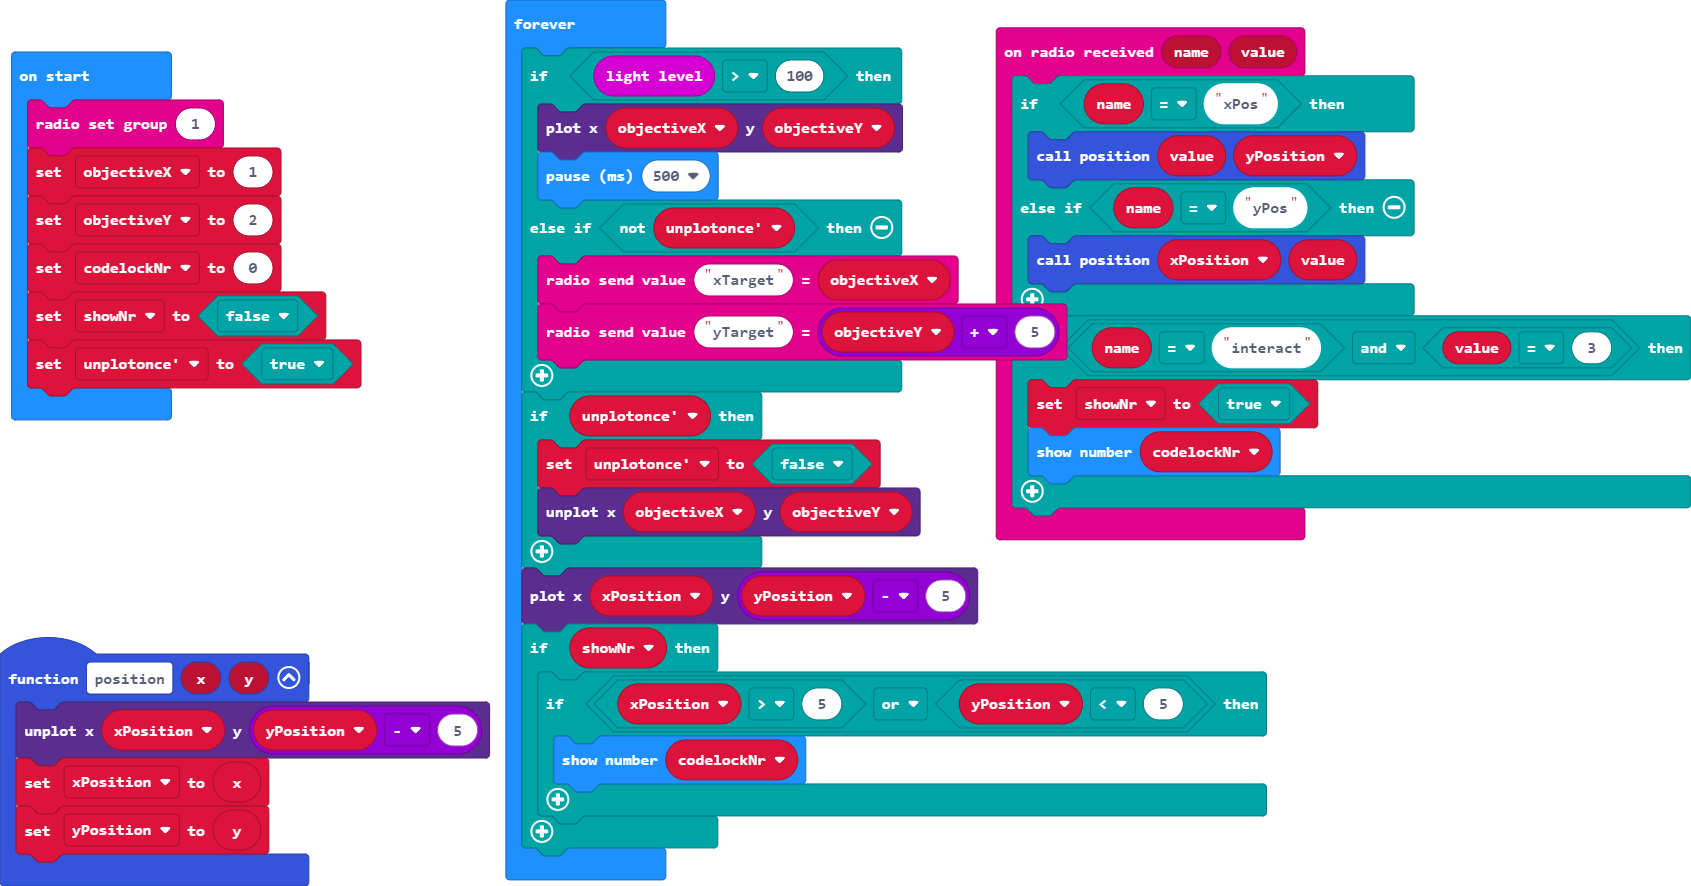
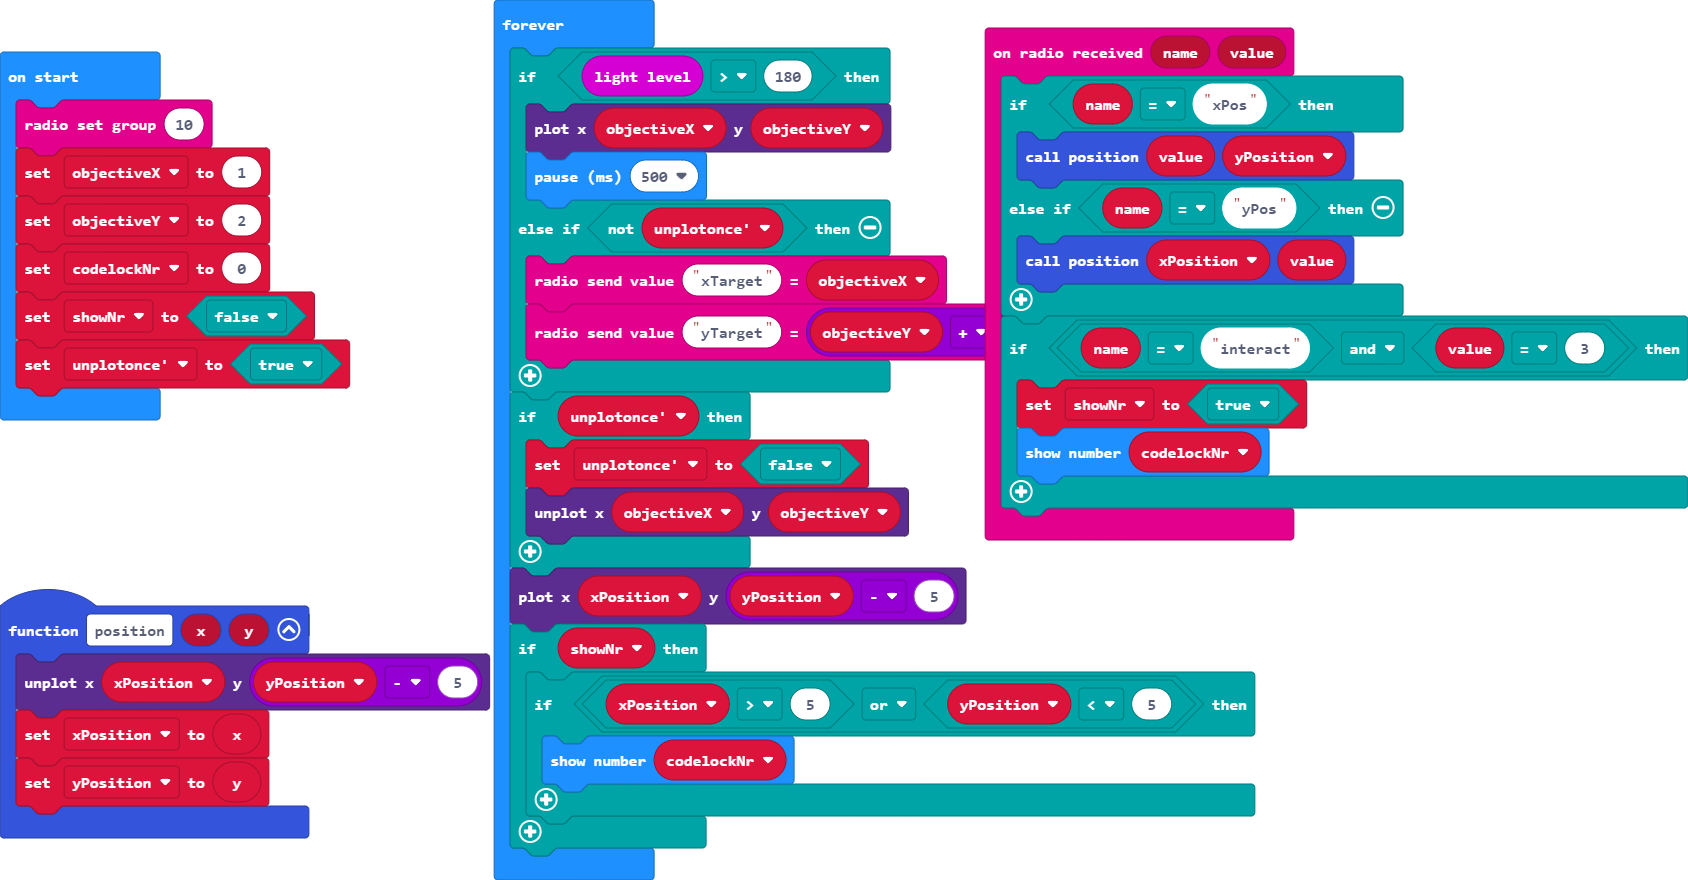
Update main.blocks, main.ts

Changed region(s): [[0.0, 0.0, 1.0, 1.0], [0.0, 0.0614, 0.2156, 0.4909], [0.7393, 0.8898, 0.7701, 0.9205]]

diff --git a/main.ts b/main.ts
@@ -18,14 +18,14 @@ let yPosition = 0
 let xPosition = 0
 let showNr = false
 let codelockNr = 0
-radio.setGroup(1)
+radio.setGroup(10)
 let objectiveX = 1
 let objectiveY = 2
 codelockNr = 0
 showNr = false
 let unplotonce = true
 basic.forever(function () {
-    if (input.lightLevel() > 100) {
+    if (input.lightLevel() > 180) {
         led.plot(objectiveX, objectiveY)
         basic.pause(500)
     } else if (!(unplotonce)) {
